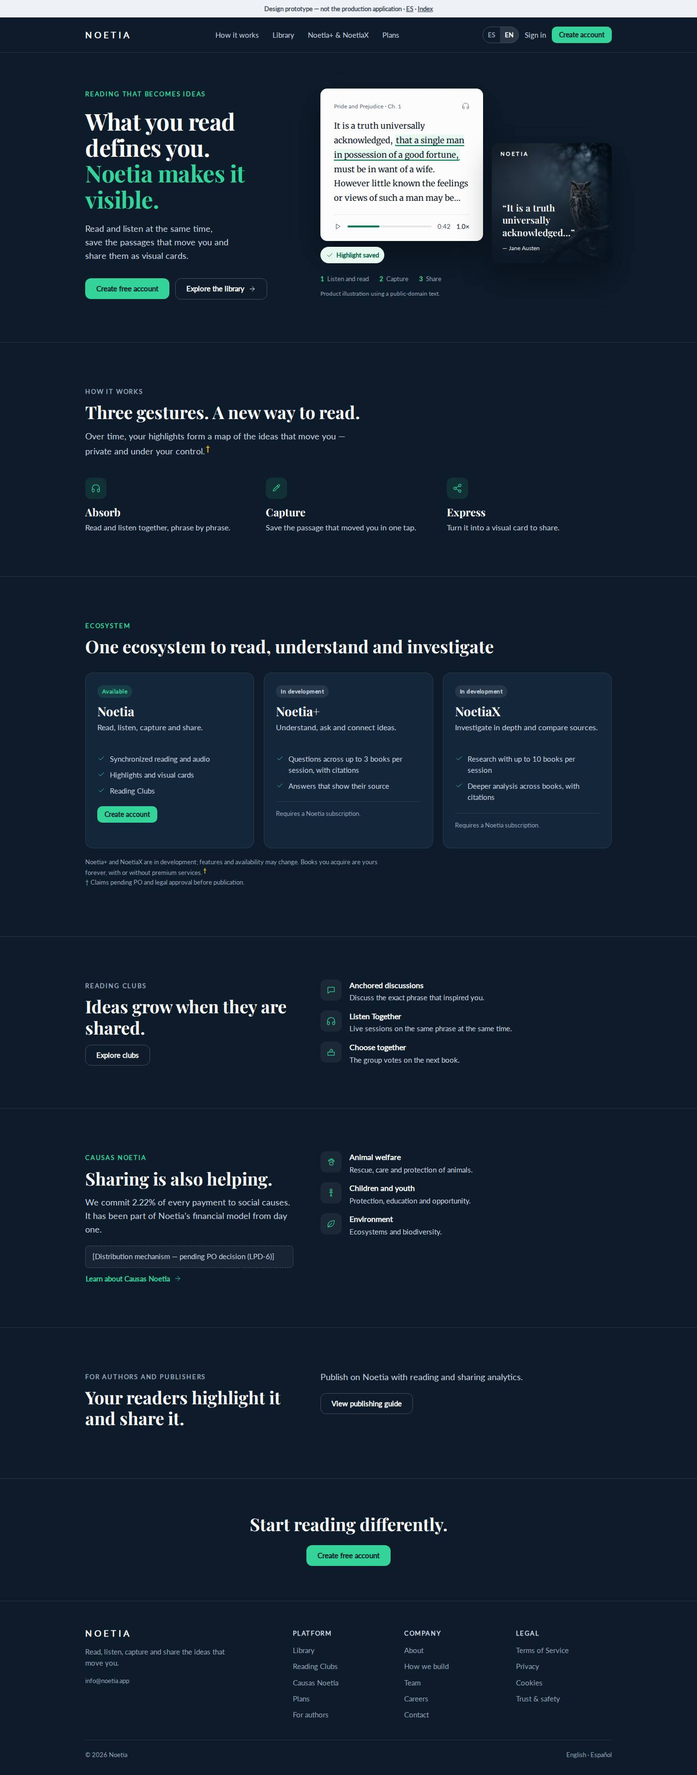
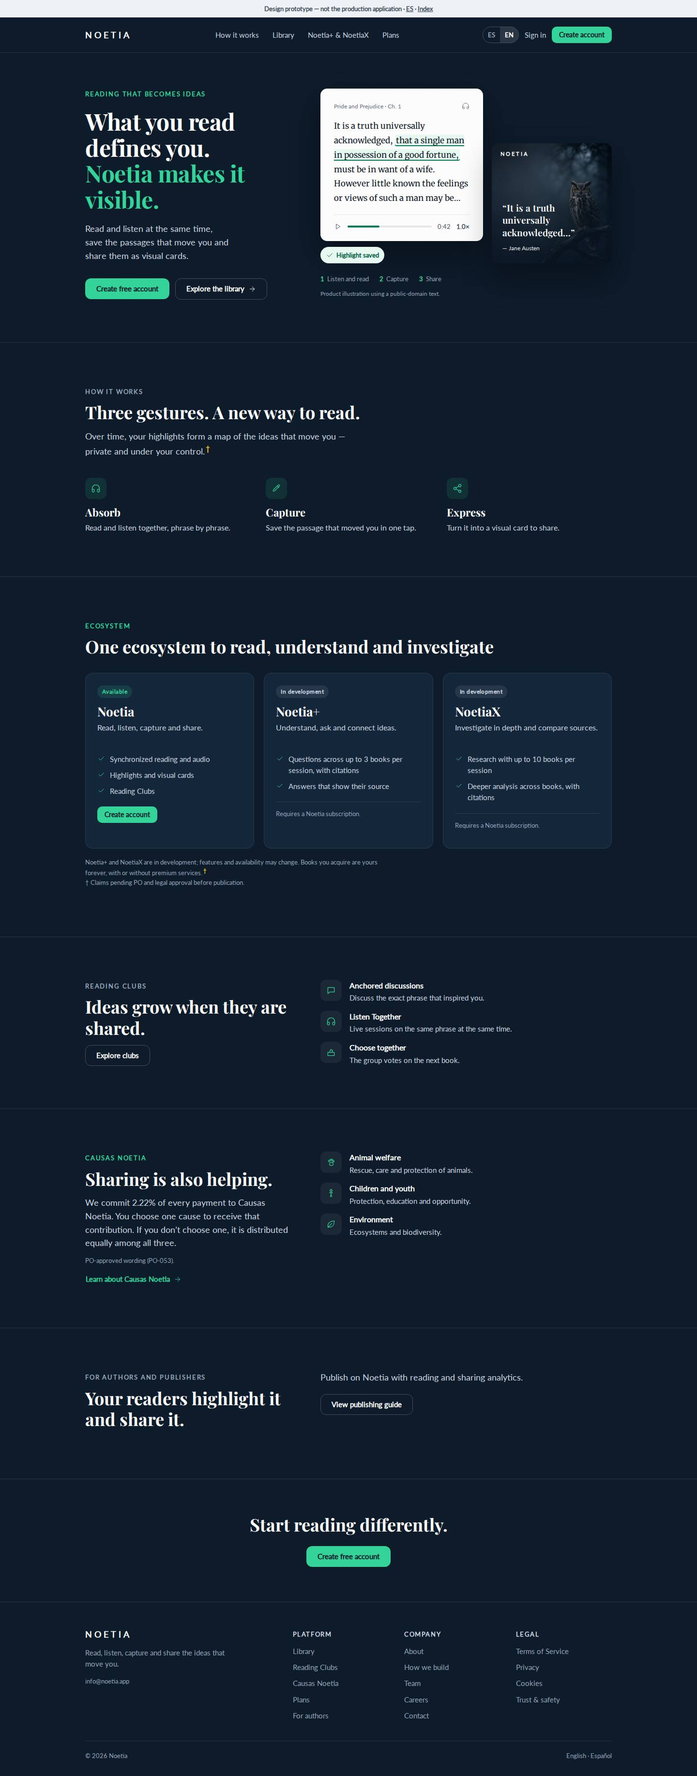
docs: PO-053 Causas Noetia distribution policy — one cause or equal default; alignment plan
Records the approved PO policy (2.22% of each qualifying payment; one cause
per user receives 100%; no selection = equal deterministic split across the
three causes; no other options), superseding the M2 recommendation. Adds the
register entry, marks the mechanism comparison superseded, inventories the
inconsistencies (CauseSelector two-cause/random, preference API and schema,
/causas, landing, milestones/about wording, business-plan cause names, Terms
§3) with a proposed alignment plan, and aligns the prototype homepage copy.
Documentation only: no allocation, Stripe, subscription, API, legal-text or
business-plan changes.

diff --git a/docs/design/ecosystem-ux/prototypes/src/public.es.html b/docs/design/ecosystem-ux/prototypes/src/public.es.html
@@ -60,8 +60,8 @@
   </div></div></section>
 <section class="section"><div class="wrap split">
   <div><span class="eyebrow" style="color:var(--emerald)">Causas Noetia</span><h2>Compartir también es ayudar.</h2>
-    <p class="intro" style="margin-bottom:20px">Destinamos el 2,22% de cada pago a causas sociales. Forma parte del modelo financiero de Noetia desde el primer día.</p>
-    <div class="ph" style="background:rgba(255,255,255,.04);border-color:rgba(255,255,255,.25);color:var(--on-navy-2)">[Mecanismo de distribución — pendiente de decisión del PO (LPD-6)]</div>
+    <p class="intro" style="margin-bottom:20px">Destinamos el 2,22% de cada pago a Causas Noetia. Tú eliges una causa para recibir ese aporte. Si no eliges ninguna, se distribuye por igual entre las tres.</p>
+    <p class="small" style="color:var(--on-navy-3);margin:-8px 0 16px">Texto aprobado por el PO (PO-053).</p>
     <a class="btn text" href="#">Conoce Causas Noetia <svg class="icon sm" aria-hidden="true"><use href="#i-arrow-right"/></svg></a></div>
   <div class="feature-rows">
     <div class="frow"><div class="ic"><svg class="icon" aria-hidden="true"><use href="#i-paw"/></svg></div><div><h4>Bienestar animal</h4><p>Rescate, cuidado y protección de animales.</p></div></div>

diff --git a/docs/design/ecosystem-ux/prototypes/src/public.en.html b/docs/design/ecosystem-ux/prototypes/src/public.en.html
@@ -60,8 +60,8 @@
   </div></div></section>
 <section class="section"><div class="wrap split">
   <div><span class="eyebrow" style="color:var(--emerald)">Causas Noetia</span><h2>Sharing is also helping.</h2>
-    <p class="intro" style="margin-bottom:20px">We commit 2.22% of every payment to social causes. It has been part of Noetia’s financial model from day one.</p>
-    <div class="ph" style="background:rgba(255,255,255,.04);border-color:rgba(255,255,255,.25);color:var(--on-navy-2)">[Distribution mechanism — pending PO decision (LPD-6)]</div>
+    <p class="intro" style="margin-bottom:20px">We commit 2.22% of every payment to Causas Noetia. You choose one cause to receive that contribution. If you don’t choose one, it is distributed equally among all three.</p>
+    <p class="small" style="color:var(--on-navy-3);margin:-8px 0 16px">PO-approved wording (PO-053).</p>
     <a class="btn text" href="#">Learn about Causas Noetia <svg class="icon sm" aria-hidden="true"><use href="#i-arrow-right"/></svg></a></div>
   <div class="feature-rows">
     <div class="frow"><div class="ic"><svg class="icon" aria-hidden="true"><use href="#i-paw"/></svg></div><div><h4>Animal welfare</h4><p>Rescue, care and protection of animals.</p></div></div>

diff --git a/docs/design/ecosystem-ux/prototypes/tools/build_prototypes.py b/docs/design/ecosystem-ux/prototypes/tools/build_prototypes.py
@@ -197,8 +197,8 @@ def public(L):
   </div></div></section>
 <section class="section"><div class="wrap split">
   <div><span class="eyebrow" style="color:var(--emerald)">Causas Noetia</span><h2>{t('Compartir también es ayudar.', 'Sharing is also helping.')}</h2>
-    <p class="intro" style="margin-bottom:20px">{t('Destinamos el 2,22% de cada pago a causas sociales. Forma parte del modelo financiero de Noetia desde el primer día.', 'We commit 2.22% of every payment to social causes. It has been part of Noetia’s financial model from day one.')}</p>
-    <div class="ph" style="background:rgba(255,255,255,.04);border-color:rgba(255,255,255,.25);color:var(--on-navy-2)">{t('[Mecanismo de distribución — pendiente de decisión del PO (LPD-6)]', '[Distribution mechanism — pending PO decision (LPD-6)]')}</div>
+    <p class="intro" style="margin-bottom:20px">{t('Destinamos el 2,22% de cada pago a Causas Noetia. Tú eliges una causa para recibir ese aporte. Si no eliges ninguna, se distribuye por igual entre las tres.', 'We commit 2.22% of every payment to Causas Noetia. You choose one cause to receive that contribution. If you don’t choose one, it is distributed equally among all three.')}</p>
+    <p class="small" style="color:var(--on-navy-3);margin:-8px 0 16px">{t('Texto aprobado por el PO (PO-053).', 'PO-approved wording (PO-053).')}</p>
     <a class="btn text" href="#">{t('Conoce Causas Noetia', 'Learn about Causas Noetia')} {ic('arrow-right', 'icon sm')}</a></div>
   <div class="feature-rows">
     <div class="frow"><div class="ic">{ic('paw')}</div><div><h4>{t('Bienestar animal', 'Animal welfare')}</h4><p>{t('Rescate, cuidado y protección de animales.', 'Rescue, care and protection of animals.')}</p></div></div>

diff --git a/docs/design/ecosystem-ux/prototypes/causas-policy-alignment-plan.md b/docs/design/ecosystem-ux/prototypes/causas-policy-alignment-plan.md
@@ -1,0 +1,63 @@
+# Causas Noetia — PO-053 Alignment: Inconsistency Inventory and Implementation Plan
+
+**Policy:** [PO-053](../../../operating-framework/decisions/product-owner/PO-053-causas-noetia-distribution-policy.md), approved 2026-11-12.
+
+| Rule | Behaviour |
+|---|---|
+| Base | 2.22% of each qualifying payment |
+| One cause selected | Animal Welfare / Children and Youth / Environment; the chosen cause receives 100% of the allocation |
+| No selection | equal, deterministic split across all three |
+| Other options | none |
+
+**Status:** documentation and plan only. **Nothing here is implemented.** Every step below needs its own authorization: code, migration, legal-text and accounting work are all excluded from this PR.
+
+## 1. Inconsistency inventory (`main@6a5e5c0`, VERIFIED)
+
+| # | Surface | Current behaviour or text | Conflict with PO-053 |
+|---|---|---|---|
+| I-1 | `services/web/components/CauseSelector.tsx:30-36,79` | Toggle allows **up to 2** selected causes (`prev.length < 2`; disables others at `selected.length >= 2`) | One cause only |
+| I-2 | `CauseSelector.tsx:110-121` | "Distribuir aleatoriamente" option described as "Tu 2,22% se reparte equitativamente entre las tres causas" | The default is equal and deterministic, and it is the **absence** of a choice, not a selectable "random" option. The label and description contradict each other |
+| I-3 | `CauseSelector.tsx:66-68` | Hard-coded Spanish: "Elige hasta 2 causas…, o distribúyelo aleatoriamente entre las tres." No English | Two causes, "random"; not bilingual |
+| I-4 | `services/api/src/causes/dto/save-preferences.dto.ts` | `cause1Id?`, `cause2Id?`, `randomDistribution: boolean` | A second cause and a random flag are not part of the policy |
+| I-5 | `services/api/src/causes/user-cause-preference.entity.ts:15-25` | Columns `cause1Id`, `cause2Id`, `randomDistribution` (migration `1714000000036`) | Same (schema; changes need a new corrective migration, never an edit) |
+| I-6 | `services/api/tests/unit/causes/causes.service.spec.ts` | Tests encode the two-cause/random model | Must follow the API change |
+| I-7 | `services/web/app/causas/page.tsx:74-75` | "elige hasta dos líneas estratégicas… o distribuye tu aporte de forma aleatoria entre las tres" / "choose up to two… or distribute… randomly" | Two causes, random |
+| I-8 | `services/web/app/causas/page.tsx:147,153` | "apoya proyectos sociales reales — desde el primer día, sin excepción" / "supports real social projects — from day one, without exception" | Execution tense (no contributions paid yet) |
+| I-9 | `services/web/app/LandingContent.tsx:237-240` | "2,22% de cada compra apoya proyectos sociales reales… desde el primer día. Tú eliges la causa." | Base "compra" vs "pago"; execution tense. "Tú eliges la causa" (singular) happens to match PO-053 but lacks the default rule |
+| I-10 | `services/web/app/(corporate)/milestones/content.tsx:15` | "2,22% de cada pago donado automáticamente a causas aliadas desde el primer día" | "donado" claims executed contributions |
+| I-11 | `services/web/app/(corporate)/about/content.tsx:25-26` | "El 2,22% de cada compra apoya causas sociales…" | Execution tense; "compra" vs "pago" |
+| I-12 | `docs/business/en/01-business-plan.md:47`, `docs/business/es/01-plan-de-negocio.md:47` | Causes listed as "Medio Ambiente, Educación, Salud" (Environment, Education, Health) | Confirmed causes are Animal Welfare, Children and Youth, Environment |
+| I-13 | `docs/business/{en,es}/01-*.md:14,85,186` | "2.22% of every payment" | Rule 1 says "qualifying payment" (open point OP-1) |
+| I-14 | `services/web/lib/legal/terms-of-service.ts:44` / `:141` | "El 2,22 % de cada pago… Al suscribirte, autorizas esta distribución." | Legal text: alignment only through counsel (OP-3); not changed here |
+| I-15 | Design documents (Draft PR #57): `causas-mechanism-decision.md` (M2) and Appendix G LP-07 (mechanism "pending") | Pre-decision analysis | Marked superseded (this PR). Appendix G is left as historical; this plan records the relationship |
+| I-16 | Prototype homepage (`tools/build_prototypes.py`) | Placeholder "[Mecanismo de distribución — pendiente de decisión del PO (LPD-6)]" | Replaced with the approved wording (this PR) |
+
+Mobile (`services/mobile/src`) has no cause-selection surface (searched; no matches).
+
+## 2. Implementation plan (proposed sequence; each step separately authorized)
+
+| Step | Change | Files | Dependencies | Acceptance |
+|---|---|---|---|---|
+| **S1. Public copy** | Approved PO-053 wording on the landing page; commitment tense; "pago" base | `LandingContent.tsx` (done in the separate public-website Draft PR), `causas/page.tsx:74-75,147,153`, `(corporate)/milestones/content.tsx:15`, `(corporate)/about/content.tsx:25-26` | none (copy) | No "random", "two", "donado", "apoya… desde el primer día"; ES/EN parity |
+| **S2. Selector UI** | Single-choice radio group of the three causes, plus a separate explanatory line: "Si no eliges ninguna, tu aporte se reparte por igual entre las tres." Remove the "random" option. Bilingual through i18n | `components/CauseSelector.tsx`, `lib/i18n/{es,en}.ts`, new `tests/unit/components/CauseSelector.spec.tsx` | S3 (API contract) | At most one cause selectable; saving with none selected stores "no preference"; ES/EN |
+| **S3. API contract** | `SavePreferencesDto` → `{ causeId: uuid \| null }`. Stop accepting `cause2Id` and `randomDistribution` (or accept and ignore during a transition window) | `causes/dto/*`, `causes.service.ts`, `causes.controller.ts`, `tests/unit/causes/*` | PO rule for legacy data (OP-2) | Unit tests: one cause; null means no preference; legacy fields rejected or ignored |
+| **S4. Schema migration** | New corrective migration: map `randomDistribution = true` to no preference; map two-cause rows per the OP-2 decision; later drop `cause2Id` and `randomDistribution` in a follow-up migration | `services/api/src/migrations/<new>` (never edit `…036`) | OP-2; production snapshot per CLAUDE.md before migration | Count before and after; idempotent |
+| **S5. Business-plan documents** | Correct cause names (I-12); align "payment" vs "qualifying payment" after OP-1 | `docs/business/{en,es}/01-*.md` | PO authorization to edit the business plans; OP-1 | Names match PO-053 |
+| **S6. Legal** | Counsel reviews any mechanism description in Terms §3 | `lib/legal/terms-of-service.ts` | qualified counsel; PO | Counsel-approved wording only |
+| **S7. Allocation and reporting** | Engineering design: per-qualifying-payment calculation (one cause → 100%; none → one third each, with a rounding rule), refunds and chargebacks, ledger, reconciliation with Stripe and accounting, audit trail, public reporting of executed contributions | new design document → separate mission | OP-1, OP-4; PO authorization | Design approved before any code |
+
+**Suggested grouping:**
+- S1 can ship with the public-website PR.
+- S2, S3 and S4 form one bounded engineering change, after OP-2.
+- S5 and S6 are documentation and legal tracks.
+- S7 is a separate mission.
+
+## 3. Decisions still needed
+
+| # | Question |
+|---|---|
+| OP-1 | What counts as a "qualifying payment", and should the public wording keep "every payment"? |
+| OP-2 | How should legacy two-cause or random preferences be migrated? |
+| OP-3 | Counsel wording for Terms §3. |
+| OP-4 | Authorization for an allocation and reporting design. |
+| Rounding | How should the equal split handle cents (a three-way split of 2.22% of an amount)? |

diff --git a/docs/operating-framework/decisions/product-owner/PO-053-causas-noetia-distribution-policy.md b/docs/operating-framework/decisions/product-owner/PO-053-causas-noetia-distribution-policy.md
@@ -1,0 +1,60 @@
+# PO-053 — Causas Noetia Distribution Policy (Approved Product Policy)
+
+**Status:** `DECIDED` — Product Owner, 2026-11-12 (*NOETIA — Final Product Owner Decision: Causas Distribution*, which supersedes the same day's *Causas Default Distribution* clarification and is consistent with it).
+**Domain:** Social impact (Causas Noetia), Product policy · **Authority:** Product Owner · **Review:** independent Product Architecture
+**Date:** 2026-11-12 · **Recording agent:** Claude Code · **Recorded on:** documentation-only branch `docs/causas-distribution-policy-20261112` (stacked on Draft PR #57's branch)
+**Related:**
+- [Causas mechanism comparison](../../../design/ecosystem-ux/prototypes/causas-mechanism-decision.md) (its M2 recommendation is **superseded**);
+- Appendix G LP-07 ([report](../../../reports/noetia-ecosystem-ux-audit/G-published-landing-visual-assessment.md));
+- business plans `docs/business/{en,es}/01-*.md`.
+
+> Identifier: `PO-053` verified unused on all remote branches, in the commit history and in the governance trees on 2026-11-12. PO-001 to PO-052 exist on other branches. This governance directory isn't on `main` yet; the register entry is in `docs/noetia-plus/PRODUCT-DECISIONS.md`, following the convention noted there.
+
+## Decision — approved rules
+
+1. Noetia allocates **2.22% of each qualifying payment** to Causas Noetia.
+2. Each user may select **one cause only**:
+   - Animal Welfare / Bienestar animal;
+   - Children and Youth / Niñez y juventud;
+   - Environment / Medio ambiente.
+3. When one cause is selected, **100%** of that payment's 2.22% allocation goes to the selected cause.
+4. When **no cause is selected**, the allocation is divided **equally among all three** causes.
+5. There are **no other** distribution options.
+6. The default distribution is **deterministic, not random**.
+
+**Superseded:** the M2 recommendation (up to two causes, or an equal split across three) and every earlier description allowing two causes or a "random" distribution.
+
+## Approved public wording
+
+| Language | Text |
+|---|---|
+| Español | "Destinamos el 2,22% de cada pago a Causas Noetia. Tú eliges una causa para recibir ese aporte. Si no eliges ninguna, se distribuye por igual entre las tres." |
+| English | "We commit 2.22% of every payment to Causas Noetia. You choose one cause to receive that contribution. If you don't choose one, it is distributed equally among all three." |
+
+Social-impact wording must remain commitment-based. **No sales have occurred**, so no contribution has been paid; public copy must not claim executed or "donated" contributions.
+
+## Unchanged
+
+- The 2.22% commitment and the three causes.
+- Financial policy otherwise.
+- Production allocation, Stripe integration, subscription logic and published legal documents. No changes are authorized here.
+
+## Not authorized by this record
+
+- Modifying production financial allocation, Stripe, subscription logic, the preference API or published legal documents.
+- Creating or deploying an accounting or payout system without a separately approved engineering design.
+- Merge or deployment.
+- Any change to NEM-024 restrictions. E-1 remains OPEN and BLOCKED; Checkpoint E remains NOT QUALIFIED; release remains BLOCKED.
+
+## Open points recorded (not decided here)
+
+| # | Point | Why it matters |
+|---|---|---|
+| OP-1 | **"Qualifying payment" definition.** Rule 1 says "each qualifying payment"; the approved public wording says "every payment" | Which payments count (subscriptions, token packs, gifts; trials; refunded or charged-back payments) must be defined before allocation logic and before counsel reviews the wording |
+| OP-2 | **Legacy preferences.** Records saved under the old selector may hold two causes or `randomDistribution = true` | The alignment migration needs a PO rule. Proposed for decision: treat `randomDistribution` as "no preference" (equal split). For two-cause records: either keep the first cause or reset to no preference |
+| OP-3 | **Terms of Service §3** describes the 2.22% ("autorizas esta distribución") | Any mechanism description in the Terms requires qualified legal review (DL-03) |
+| OP-4 | **Allocation, ledger, reconciliation, refunds and reporting of executed contributions** | Requires a separately approved engineering design |
+
+## STOP gate
+
+This is a documentation-only Draft PR for independent Product Architecture review. No merge or deployment.

diff --git a/docs/design/ecosystem-ux/prototypes/causas-mechanism-decision.md b/docs/design/ecosystem-ux/prototypes/causas-mechanism-decision.md
@@ -1,6 +1,13 @@
 # Causas Noetia — Distribution-Mechanism Decision Recommendation
 
-**Status:** recommendation for the Product Owner. **No mechanism is selected here.** The 2.22% commitment and the three priorities are PO-confirmed and unchanged. Prepared under the Visual Design Phase authorization (2026-11-12).
+> **SUPERSEDED — final policy approved by the Product Owner on 2026-11-12: [PO-053](../../../operating-framework/decisions/product-owner/PO-053-causas-noetia-distribution-policy.md).**
+> - **One cause per user**, receiving 100% of that payment's 2.22% allocation.
+> - **No selection** means an equal, deterministic split across all three causes.
+> - **No other options.**
+>
+> The M2 recommendation below (up to two causes, or an equal split across three) is **not** the approved policy. §1–§4 are kept unchanged as the historical analysis that preceded the decision. The alignment of code and documents is planned in [causas-policy-alignment-plan.md](causas-policy-alignment-plan.md).
+
+**Original status (before PO-053):** recommendation for the Product Owner; no mechanism selected. The 2.22% commitment and the three priorities are PO-confirmed and unchanged. Prepared under the Visual Design Phase authorization (2026-11-12).
 
 ## 1. Confirmed facts (Product Owner)
 
@@ -44,7 +51,7 @@
 | Allocation, payout and audit effort (all options) | **Engineering and finance work required.** Today no allocation, payout or reporting exists (§2). Any option needs: a per-payment allocation calculation (incl. refunds and chargebacks), a contribution ledger, reconciliation with Stripe and accounting, audit trail and reporting of executed contributions, and controls on preference changes over time. M1 and M3 make the calculation simpler; M2 needs a two-cause ratio and a default | same | simplest calculation, but still needs the ledger and audit |
 | Risk | contradicts the existing selector | low, once the ratio and default are defined | contradicts "Tú decides" messaging |
 
-## 5. Option recommended for PO consideration (not selected)
+## 5. Option recommended for PO consideration (not selected) — SUPERSEDED by PO-053
 
 **No mechanism is selected by this document.** For consideration: **M2, with three definitions added:**
 

diff --git a/docs/design/ecosystem-ux/prototypes/visual-specification.md b/docs/design/ecosystem-ux/prototypes/visual-specification.md
@@ -152,7 +152,7 @@ The examples live in the prototypes; names are proposals for `services/web/compo
 
 | ID | Decision |
 |---|---|
-| LPD-6 / Causas | distribution mechanism (recommendation: M2 with equal split, 50/50 for two causes, equal default); business-plan cause names |
+| ~~LPD-6 / Causas mechanism~~ | **Resolved by [PO-053](../../../operating-framework/decisions/product-owner/PO-053-causas-noetia-distribution-policy.md)** (one cause → 100%; no selection → equal, deterministic split across three; no other options). Still open: qualifying-payment definition, legacy preferences, business-plan cause names, Terms §3 counsel review ([alignment plan](causas-policy-alignment-plan.md)) |
 | DV-04 / 05 / 06 / 07 | English term for *fragmento*; Escucha Activa in English; "Suscripción Noetia"; Spanish name for Research Brief |
 | DV-08 | mode and provenance label names |
 | DV-09 | usage units and meter |
@@ -189,5 +189,5 @@ The examples live in the prototypes; names are proposals for `services/web/compo
 | "Tus libros adquiridos son tuyos para siempre…" / "Books you acquire are yours forever…" | `public` (ecosystem note), `core-account` | PO + legal counsel (permanent-ownership clause, DL-05; Appendix C) |
 | "Tus libros son tuyos para siempre." / "Your books are yours forever." | `core-library` | same |
 | "…privado y bajo tu control." / "…private and under your control." | `public` (how it works) | PO + legal counsel (must match actual visibility defaults and opt-out; Appendix G LP-07) |
-| "Destinamos el 2,22% de cada pago…" (commitment wording) | `public` (Causas) | PO-confirmed commitment; final wording and mechanism sentence need PO decision (LPD-6) and legal review against Terms §3 |
+| "Destinamos el 2,22% de cada pago a Causas Noetia. Tú eliges una causa… se distribuye por igual entre las tres." | `public` (Causas) | **Wording approved by the PO (PO-053).** Legal review of Terms §3 consistency is still required before publication (OP-3); "every payment" vs "qualifying payment" is open (OP-1) |
 | Legal documents and disclosures | `legal-*` | placeholders only; qualified counsel |

diff --git a/docs/design/ecosystem-ux/prototypes/README.md b/docs/design/ecosystem-ux/prototypes/README.md
@@ -11,7 +11,8 @@
 | Document | Purpose |
 |---|---|
 | [visual-specification.md](visual-specification.md) | tokens, typography, components, responsive layouts, content rules, reuse, dependencies, pending decisions, acceptance criteria |
-| [causas-mechanism-decision.md](causas-mechanism-decision.md) | Causas Noetia distribution-mechanism comparison and recommendation (**no mechanism selected**) |
+| [causas-mechanism-decision.md](causas-mechanism-decision.md) | Causas Noetia distribution-mechanism comparison (historical; **superseded by PO-053**) |
+| [causas-policy-alignment-plan.md](causas-policy-alignment-plan.md) | PO-053 approved policy: inconsistency inventory (code, pages, business plans, legal) and proposed alignment plan; nothing implemented |
 | [src/](src/) | 17 screens × ES/EN static HTML (`index.es.html` / `index.en.html` link them all); shared `assets/proto.css` |
 | [screenshots/](screenshots/) | 68 locally rendered JPEGs: `<screen>--<es\|en>--<desktop\|mobile>.jpg` |
 | [tools/](tools/) | `build_prototypes.py` (stdlib-only generator) and `capture.js` (screenshot tool; uses a locally available `playwright-core` through `PLAYWRIGHT_CORE`; **not added as a dependency**). *Previously under `build/`, which the repository-wide `.gitignore` rule `build/` silently excluded from commit `7bdc013`; moved to `tools/`* |
@@ -81,7 +82,7 @@
 | Noetia+ screens | **conceptual**; capabilities approved (PO-025/027/028/003), UI not implemented |
 | NoetiaX screens | **conceptual**; X-P2/X-P3/X-P4 elements labelled and **require PO approval** |
 | Legal screens | layout only; **no legal text**; wording requires qualified counsel |
-| Causas Noetia | commitment preserved (2.22%; three priorities); **mechanism pending PO decision** |
+| Causas Noetia | commitment preserved (2.22%; three priorities). **Mechanism approved: PO-053** (one cause → 100%; no selection → equal split across three). Prototype homepage uses the approved wording; production alignment not implemented |
 
 ## How to regenerate
 

diff --git a/docs/noetia-plus/PRODUCT-DECISIONS.md b/docs/noetia-plus/PRODUCT-DECISIONS.md
@@ -54,6 +54,17 @@ The three principal NEM-003 blockers are **resolved**:
 2. General copyright / quotation architecture → **PO-002 / ADR-002.**
 3. Grounded-only vs broader model knowledge → **PO-003 / ADR-003.**
 
+## PO-053 — Causas Noetia distribution policy (approved product policy) — decided 2026-11-12
+→ **[PO-053](../operating-framework/decisions/product-owner/PO-053-causas-noetia-distribution-policy.md)**
+
+> PO-005 to PO-052 are recorded on unmerged governance branches (for example Draft PRs #44 and #56); this register on `main` receives PO-053 directly.
+
+- 2.22% of each qualifying payment goes to Causas Noetia. Each user selects **one** cause (Animal Welfare / Children and Youth / Environment), which receives 100% of that payment's allocation. **No selection means an equal, deterministic split across all three.** No other options.
+- Supersedes the M2 recommendation and every two-cause or "random" description.
+- Approved public wording (ES/EN) is recorded in PO-053. Copy must be commitment-based: no contributions have been paid yet.
+- **Not authorized:** production allocation, Stripe, subscription logic, preference-API changes, legal-document changes, accounting or payout systems (separate engineering design required), merge, deployment.
+- **Open:** "qualifying payment" definition; legacy two-cause and random preferences; Terms §3 legal review; allocation and reporting design.
+
 ## Still open (subordinate) — not resolved here
 Final retail price · exact fair-use/quotation technical thresholds · final AI fair-use limits · exact provider selection · exact model selection · publisher-contract language · final customer-facing intelligence-mode names · final UX presentation. See [`20-open-product-decisions.md`](20-open-product-decisions.md).
 
